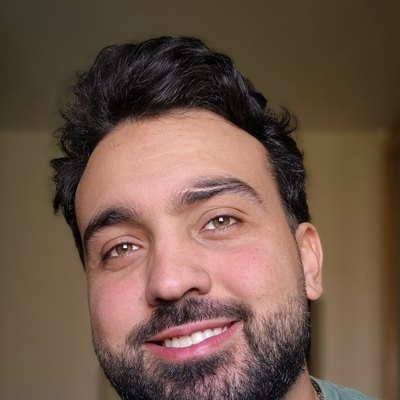
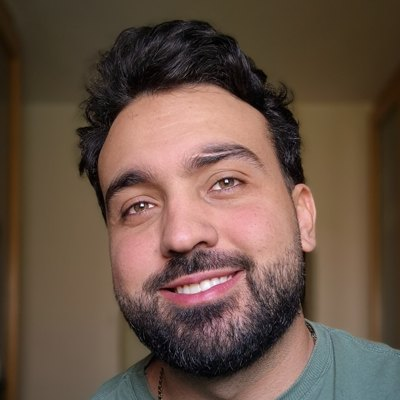
A foto volta para a lateral, com o rosto centralizado no círculo
Claude-Session: https://claude.ai/code/session_01H7MVchFCKnSYJWFVFK6syM

diff --git a/index.html b/index.html
@@ -30,8 +30,8 @@ p{margin:0}
 h1,h2{font-family:var(--display);margin:0;line-height:1.05;text-wrap:balance}
 h1{font-size:30px;font-weight:700}
 h2{font-size:22px;font-weight:700}
-.quem{display:flex;flex-direction:column;gap:10px;align-items:center;text-align:center}
-.quem .av{width:96px;height:96px;border-radius:50%;object-fit:cover;flex:none;background:var(--foto)}
+.quem{display:flex;gap:12px;align-items:center}
+.quem .av{width:72px;height:72px;object-position:center;border-radius:50%;object-fit:cover;flex:none;background:var(--foto)}
 .quem small{display:block;color:var(--muted);font-size:14px}
 .video{position:relative;border-radius:14px;overflow:hidden;background:var(--foto)}
 .video video{display:block;width:100%;aspect-ratio:4/5;object-fit:cover;max-width:100%}
